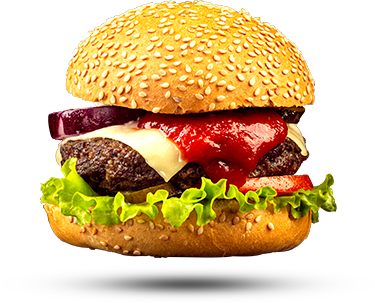
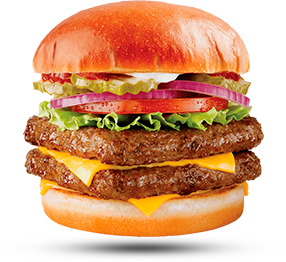
added new section

diff --git a/app/index.html b/app/index.html
@@ -51,6 +51,11 @@
                   заказать доставку
                 </a>
               </li>
+              <li class="header__item">
+                <a class="header__link" href="#">
+                  контакты
+                </a>
+              </li>
             </ul>
           </nav>
         </div>
@@ -151,7 +156,7 @@
             <div class="menu__slider-inner">
 
               <div class="menu__slider-item">
-                <div class="menu__slider-img"></div>
+                <div class="menu__slider-img" style="background-image: url(images/menu-burger5.png);"></div>
                 <div class="menu__slider-title">
                   Бургер Tender Beef
                 </div>
@@ -165,7 +170,7 @@
               </div>
 
               <div class="menu__slider-item">
-                <div class="menu__slider-img"></div>
+                <div class="menu__slider-img" style="background-image: url(images/menu-burger4.png);"></div>
                 <div class="menu__slider-title">
                   Грузин Бургер
                 </div>
@@ -179,7 +184,7 @@
               </div>
 
               <div class="menu__slider-item">
-                <div class="menu__slider-img"></div>
+                <div class="menu__slider-img" style="background-image: url(images/menu-burger2.png);"></div>
                 <div class="menu__slider-title">
                   Бургер с Курочкой
                 </div>
@@ -193,7 +198,7 @@
               </div>
 
               <div class="menu__slider-item">
-                <div class="menu__slider-img"></div>
+                <div class="menu__slider-img" style="background-image: url(images/menu-burger1.png);"></div>
                 <div class="menu__slider-title">
                   Fish burger
                 </div>
@@ -207,7 +212,7 @@
               </div>
 
               <div class="menu__slider-item">
-                <div class="menu__slider-img"></div>
+                <div class="menu__slider-img" style="background-image: url(images/menu-burger3.png);"></div>
                 <div class="menu__slider-title">
                   Black Бургер
                 </div>
@@ -221,7 +226,7 @@
               </div>
 
               <div class="menu__slider-item">
-                <div class="menu__slider-img"></div>
+                <div class="menu__slider-img" style="background-image: url(images/menu-burger6.png);"></div>
                 <div class="menu__slider-title">
                   Бургер New York
                 </div>
@@ -239,6 +244,107 @@
         </div>
       </div>
     </section>
+
+
+    <section class="new">
+      <div class="container">
+        <div class="new__inner">
+
+          <div class="new__slider">
+            <div class="new__slider-inner">
+
+              <div class="new__slider-item">
+                <div class="new__slider-box">
+                  <div class="new__slider-descr">
+                    <div class="new__slider-title">
+                      <span class="new__slider-title--thin">Попробуйте</span>
+                      Новинки
+                    </div>
+                    <div class="new__slider-text">
+                      <span class="new__slider-text--ttl">Бургер с Телятиной</span>
+                      Все та же нежная белая булочка, соус BBQ, немного дижонской горчицы, мягчайшая вырезка телятины на
+                      гриле, побольше овощей: томаты, лук марс, салат айсберг, ну и куда же был сыра? Мы добавили
+                      Чеддер!
+
+                      <span class="new__slider-text--price">Вес: 400 гр - 228грн.</span>
+                    </div>
+                  </div>
+                  <div class="new__slider-img" style="background-image: url(images/new-burger2.jpg);"></div>
+                </div>
+              </div>
+
+              <div class="new__slider-item">
+                <div class="new__slider-box">
+                  <div class="new__slider-descr">
+                    <div class="new__slider-title">
+                      <span class="new__slider-title--thin">Попробуйте</span>
+                      Новинки
+                    </div>
+                    <div class="new__slider-text">
+                      <span class="new__slider-text--ttl">meet&meat</span>
+                      Ингредиенты: двойной бифштекс из говядины, лук, бекон, огурец соленый, сыр чеддер, сыр моцарелла,
+                      лист салата, свежий помидор, соус айоли, соус кетчуп
+
+                      <span class="new__slider-text--price">Вес: 420 гр - 220грн.</span>
+                    </div>
+                  </div>
+                  <div class="new__slider-img" style="background-image: url(images/new-burger3.jpg);"></div>
+                </div>
+              </div>
+
+              <div class="new__slider-item">
+                <div class="new__slider-box">
+                  <div class="new__slider-descr">
+                    <div class="new__slider-title">
+                      <span class="new__slider-title--thin">Попробуйте</span>
+                      Новинки
+                    </div>
+                    <div class="new__slider-text">
+                      <span class="new__slider-text--ttl">Джекки Бургер с картошкой по-деревенски</span>
+                      Ароматная булочка, куриный шницель, помидор, салатный лист, сыр Чеддер, кисло-сладкий
+                      соус+картошка
+                      по-деревенски.
+
+                      <span class="new__slider-text--price">Вес: 400 гр - 300грн.</span>
+                    </div>
+                  </div>
+                  <div class="new__slider-img" style="background-image: url(images/new-burger5.jpg);"></div>
+                </div>
+              </div>
+
+            </div>
+          </div>
+
+        </div>
+      </div>
+    </section>
+
+    <section class="delivery">
+      <div class="container">
+        <div class="delivery__inner">
+          <div class="delivery__title">
+            заказать доставку
+          </div>
+          <form class="delivery__form">
+            <div class="delivery__form-box">
+              <input class="delivery__name delivery__ttl" type="text" placeholder="имя">
+              <input class="delivery__phone delivery__ttl" type="tel" placeholder="телефон">
+              <input class="delivery__adress delivery__ttl" type="text" placeholder="адрес доставки">
+            </div>
+            <div class="delivery__form-box">
+              <textarea class="delivery__order delivery__ttl" placeholder="ваш заказ и время"></textarea>
+              <button class="delivery__btn delivery__ttl" type="submit">отправить заявку</button>
+            </div>
+          </form>
+        </div>
+      </div>
+    </section>
+
+
+
+
+
+
 
 
   </main>

diff --git a/app/scss/style.scss b/app/scss/style.scss
@@ -252,10 +252,9 @@
     width: 100%;
   }
   &__slider-img {
-    background-image: url(../images/menu-burger1.png);
     background-repeat: no-repeat;
     background-position: center;
-    background-size: cover;
+    background-size: contain;
     max-width: 350px;
     width: 100%;
     height: 271px;
@@ -308,15 +307,15 @@
   margin: 80px 10px 10px;
 }
 .menu__slider-inner .slick-dots button {
-  width: 10px;
-  height: 10px;
+  width: 15px;
+  height: 15px;
   border-radius: 50%;
-  border: 1px solid #000;
-  background-color: #fff;
+  border: none;
+  background-color: #dcdcdc;
   padding: 0;
   outline: transparent;
   &:focus {
-    background-color: #bf2222;
+    background-color: #ffc045;
   }
 }
 
@@ -360,13 +359,151 @@
 }
 
 
-
-
-
 // end menu 
 
 
+// start new 
+
+.new {
+  &__inner {
+    padding: 80px 0;
+  }
+  &__slider {
+    box-shadow: 18.656px 24.758px 43px 0px rgba(0, 0, 0, 0.17);
+  }
+  &__slider-box {
+    padding: 20px 20px 20px 50px;
+    display: flex;
+    justify-content: space-between;
+    max-width: 1170px;
+    width: 100%;
+    height: 444px;
+  }
+  &__slider-title {
+    font-size: 38px;
+    font-family: 'Kudzu';
+    text-transform: uppercase;
+    max-width: 240px;
+    width: 100%;
+    margin-bottom: 40px;
+    &--thin {
+      font-family: 'PT Sans Narrow';
+      font-size: 27px;
+      font-weight: 400;
+      color: #3d3d3d;
+    }
+  }
+  &__slider-text {
+    font-family: 'Montserrat';
+    font-size: 19px;
+    font-weight: 400;
+    line-height: 30px;
+    color: #3d3d3d;
+    max-width: 450px;
+    height: 240px;
+    overflow: hidden;
+    &--ttl {
+      display: block;
+      font-family: 'PT Sans Narrow';
+      font-size: 27px;
+      font-weight: 400;
+      text-transform: uppercase;
+      max-width: 300px;
+      margin-bottom: 20px;
+    }
+    &--price {
+      display: block;
+      margin-top: 10px;
+    }
+  }
+  &__slider-img {
+    background-repeat: no-repeat;
+    background-position: center;
+    background-size: cover;
+    max-width: 596px;
+    width: 100%;
+    height: 398px;
+  }
+}
+.new__slider-inner .slick-dots {
+  position: absolute;
+  left: 40px;
+  bottom: 20px;
+}
+.new__slider-inner .slick-dots li {
+  font-size: 0;
+  display: inline-block;
+  margin: 10px;
+}
+.new__slider-inner .slick-dots button {
+  width: 15px;
+  height: 15px;
+  border-radius: 50%;
+  border: none;
+  background-color: #dcdcdc;
+  padding: 0;
+  outline: transparent;
+  &:focus {
+    background-color: #ffc045;
+  }
+}
+// end new 
+
+// start delivery 
+
+.delivery {
+  &__inner {
+    padding: 80px 0;
+    text-align: center;
+  }
+  &__title {
+    font-size: 42px;
+    font-family: 'Kudzu';
+    text-transform: uppercase;
+    margin-bottom: 80px;
+  }
+  &__form {
+    display: flex;
+    justify-content: center;
+  }
+  &__form-box {
+    max-width: 358px;
+    width: 100%;
+    & + & {
+      margin-left: 25px;
+    }
+  }
+  &__ttl {
+    display: block;
+    width: 100%;
+    height: 60px;
+    margin-bottom: 25px;
+    padding: 15px 20px;
+    border: 1px solid #c2c2c2;
+    border-radius: 5px;
+    outline: transparent;
+    &::placeholder {
+      color: #3d3d3d;
+      font-size: 20px;
+      text-transform: uppercase;
+    }
+  }
+  &__order {
+    height: 145px;
+    overflow: hidden;
+    resize: none;
+  }
+  &__btn {
+    cursor: pointer;
+    font-size: 23px;
+    color: #fff;
+    background-color: #bf2222;
+    text-transform: uppercase;
+  }
+}
 
 
+
+// end delivery 
 
 

diff --git a/app/js/main.js b/app/js/main.js
@@ -6,7 +6,13 @@ $(function () {
     speed: 1000,
     arrows: false,
     slidesToShow: 3,
-    slidesToScroll: 2,
+    slidesToScroll: 3,
+    dots: true,
+  });
+
+  $('.new__slider-inner').slick({
+    infinite: true,
+    arrows: false,
     dots: true,
   });
 
